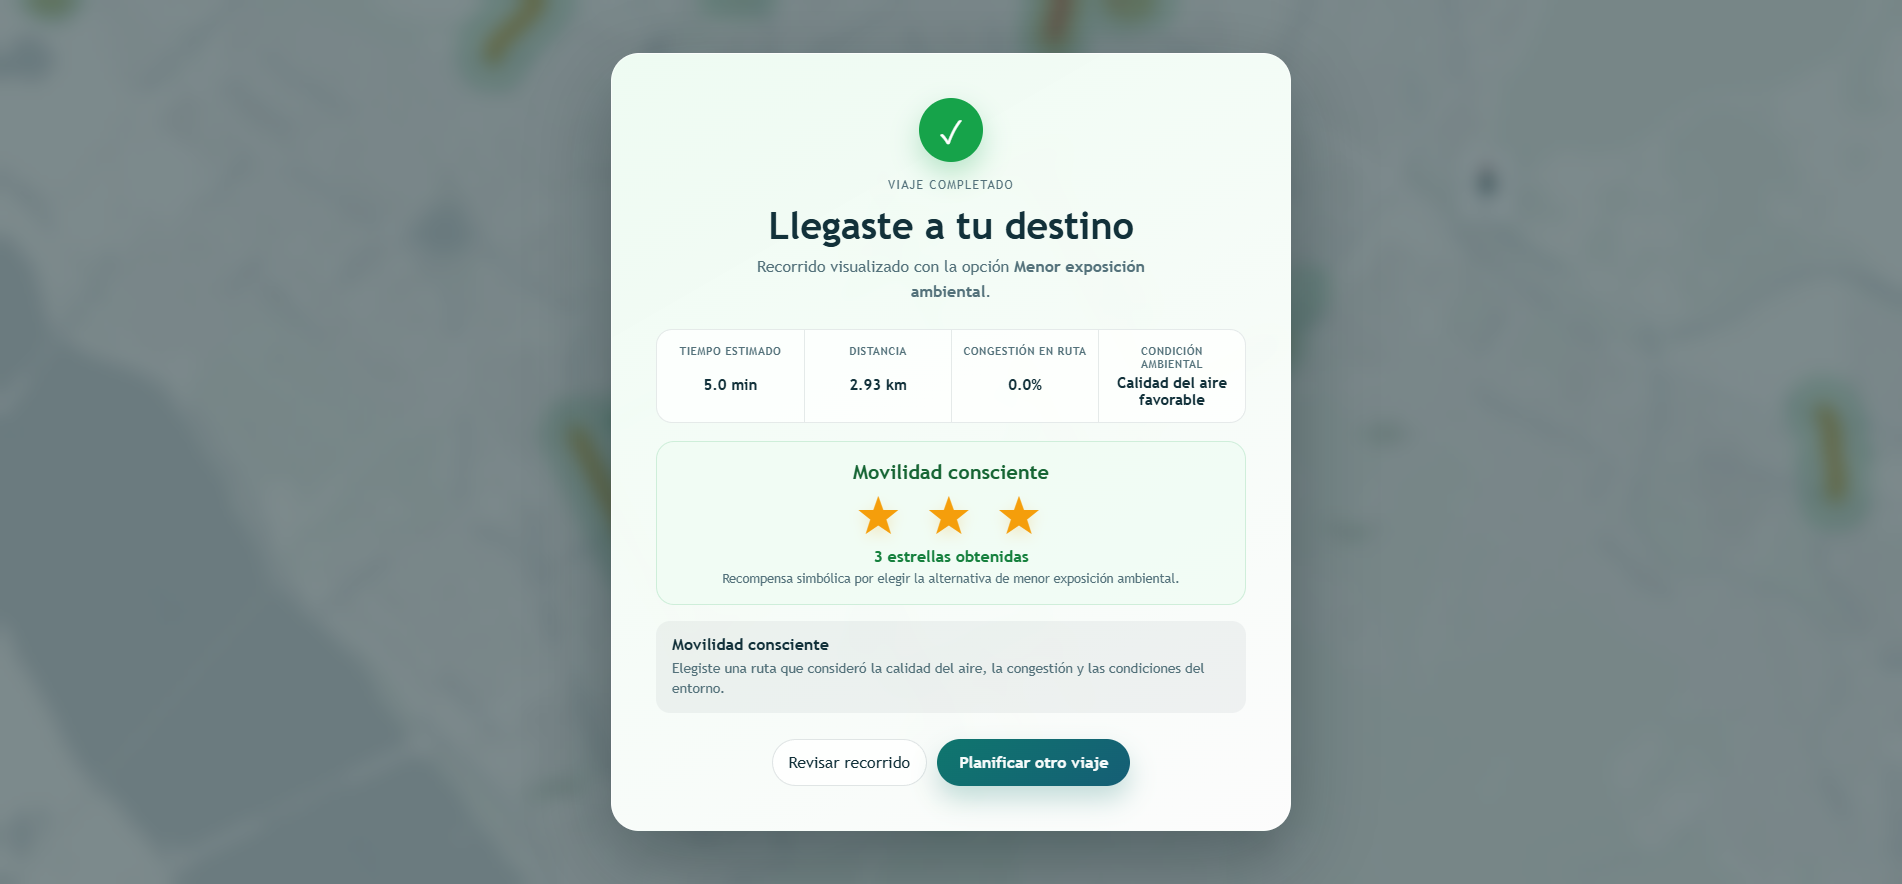
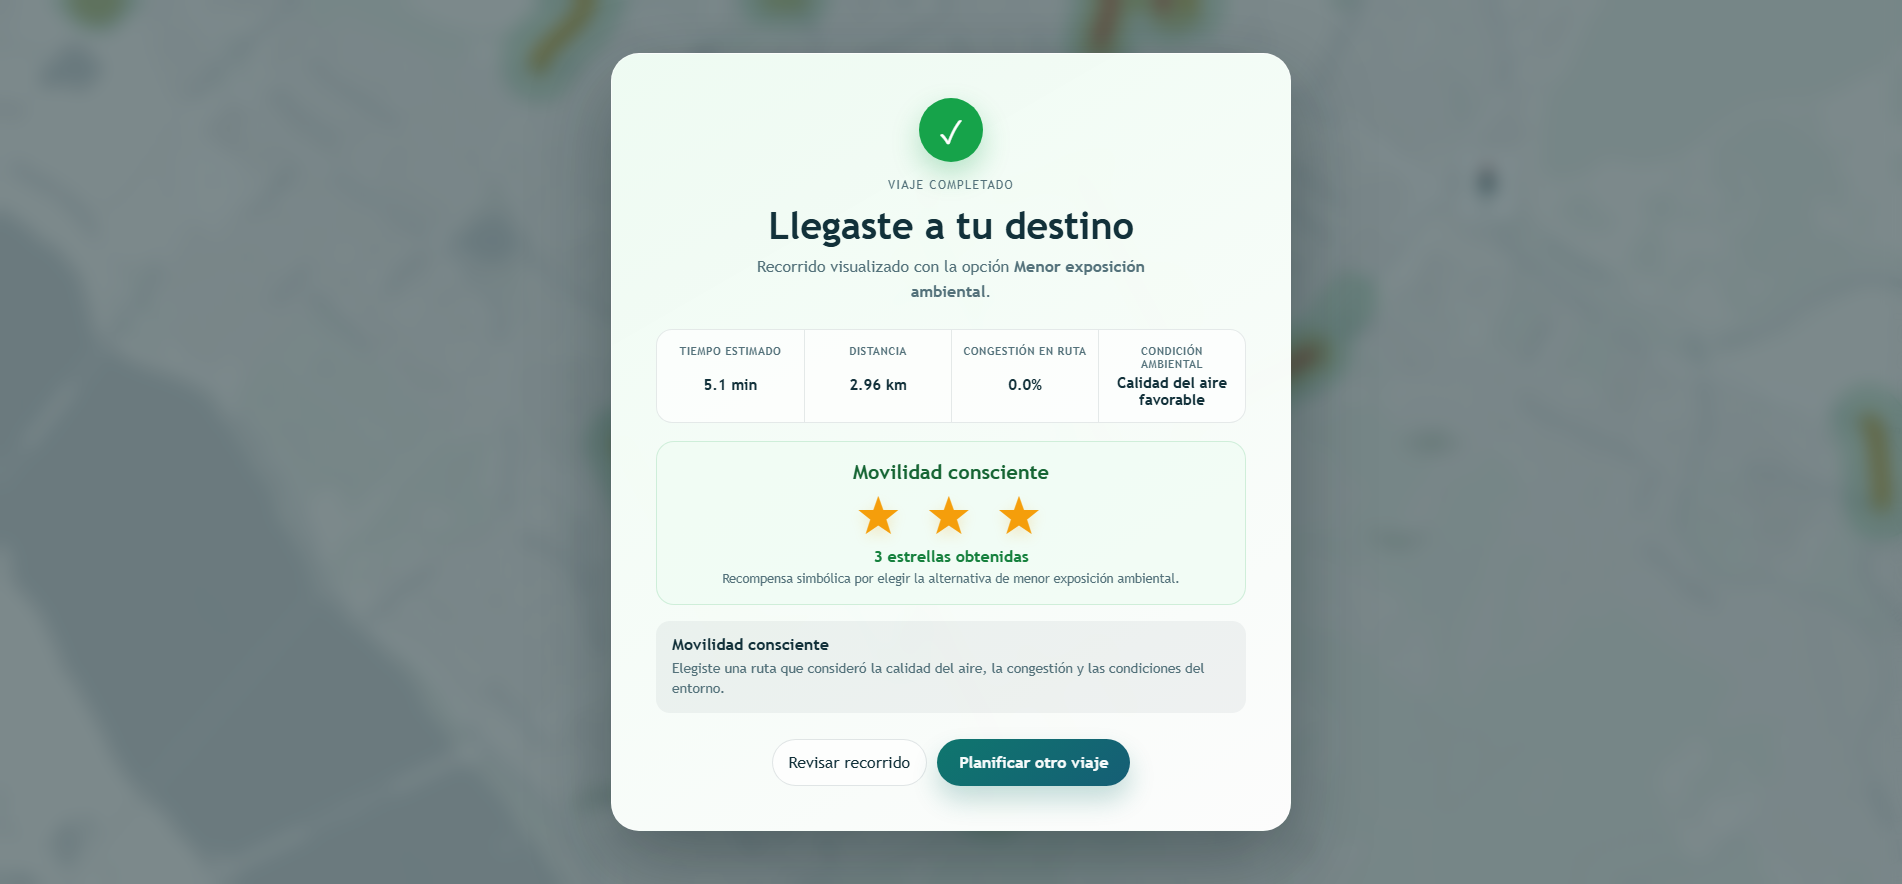
Protect Cerro Caracol routes and refine planner onboarding (#7)
* feat: protect Cerro Caracol routing

* feat: refine planner onboarding guidance

---------

diff --git a/frontend/react_app/src/pages/PlanPage.tsx b/frontend/react_app/src/pages/PlanPage.tsx
@@ -178,7 +178,7 @@ const ONBOARDING_SLIDES: OnboardingSlide[] = [
     focus: "calendar",
     callout: {
       label: "Selecciona fecha y hora",
-      description: "Así se consultarán las condiciones correspondientes al viaje.",
+      description: "En el siguiente recuadro, elige la fecha y la hora en que deseas realizar tu viaje.",
       shape: "rect",
       x: 82.2,
       y: 1.5,
@@ -265,7 +265,7 @@ const ONBOARDING_SLIDES: OnboardingSlide[] = [
       y: 13.5,
       width: 17.7,
       height: 82,
-      arrowX: 47,
+      arrowX: 24.5,
       arrowY: 28,
       targetX: 18.5,
       targetY: 28,
@@ -514,7 +514,8 @@ const ENVIRONMENT_CONDITION_INFO: Record<EnvironmentConditionKey, EnvironmentCon
   },
   wind: {
     label: "Viento",
-    short: "Indica cuanta ventilacion hay para dispersar contaminantes.",
+    short:
+      "Indica la velocidad del viento y, mientras más alta sea, mayor será la dispersión de contaminantes.",
     technical:
       "Viento suave: menos de 20 km/h, menor dispersion. Viento moderado: 20 a menos de 39 km/h, ayuda a dispersar. Viento fuerte: desde 39 km/h, mayor dispersion.",
     recommendation:

diff --git a/frontend/react_app/src/styles.css b/frontend/react_app/src/styles.css
@@ -5310,6 +5310,11 @@ input[type="range"] {
   transform: translate(-8px, -108%);
 }
 
+.onboarding-focus-recommendation .preview-callout-note {
+  max-width: min(310px, 32%);
+  transform: translate(12px, -50%);
+}
+
 .onboarding-focus-layers .preview-callout-note {
   max-width: min(360px, 40%);
 }

diff --git a/backend/fastapi_app/app/services/routing_service.py b/backend/fastapi_app/app/services/routing_service.py
@@ -74,6 +74,132 @@ DAY_ALIASES = {
     "domingo": "Sunday",
 }
 
+# Límite simplificado del Parque Metropolitano Cerro Caracol (OSM way 1061161704).
+# El corredor de Víctor Lamas se permite explícitamente porque bordea el parque
+# y constituye la alternativa vial indicada para atravesar este sector.
+CERRO_CARACOL_PROTECTED_POLYGON: Tuple[Tuple[float, float], ...] = (
+    (-36.8355807, -73.0555244),
+    (-36.8380489, -73.0549166),
+    (-36.8360418, -73.0496085),
+    (-36.8383344, -73.0490452),
+    (-36.8382292, -73.0443004),
+    (-36.8406227, -73.0414385),
+    (-36.8436837, -73.0391049),
+    (-36.8436923, -73.0379999),
+    (-36.8420180, -73.0322117),
+    (-36.8386478, -73.0331934),
+    (-36.8374899, -73.0336365),
+    (-36.8365613, -73.0335260),
+    (-36.8359473, -73.0356985),
+    (-36.8330443, -73.0398319),
+    (-36.8327551, -73.0395425),
+    (-36.8320432, -73.0406373),
+    (-36.8305391, -73.0415440),
+    (-36.8308884, -73.0420446),
+    (-36.8312384, -73.0433494),
+    (-36.8320678, -73.0445917),
+    (-36.8327758, -73.0452263),
+    (-36.8339353, -73.0472987),
+    (-36.8352312, -73.0493902),
+    (-36.8343773, -73.0500710),
+    (-36.8344362, -73.0524658),
+    (-36.8351270, -73.0534724),
+)
+CERRO_CARACOL_APPROACH_BUFFER_KM = 0.60
+CERRO_CARACOL_APPROACH_PENALTY = 80.0
+
+
+def _point_in_polygon(lat: float, lon: float, polygon: Tuple[Tuple[float, float], ...]) -> bool:
+    inside = False
+    previous_lat, previous_lon = polygon[-1]
+    for current_lat, current_lon in polygon:
+        crosses_latitude = (current_lat > lat) != (previous_lat > lat)
+        if crosses_latitude:
+            crossing_lon = (
+                (previous_lon - current_lon) * (lat - current_lat) / (previous_lat - current_lat)
+                + current_lon
+            )
+            if lon < crossing_lon:
+                inside = not inside
+        previous_lat, previous_lon = current_lat, current_lon
+    return inside
+
+
+def _is_victor_lamas(via: str) -> bool:
+    normalized = unicodedata.normalize("NFKD", str(via or ""))
+    ascii_name = "".join(char for char in normalized if not unicodedata.combining(char)).lower()
+    return "victor lamas" in ascii_name
+
+
+def _point_to_segment_distance_km(
+    lat: float,
+    lon: float,
+    start: Tuple[float, float],
+    end: Tuple[float, float],
+) -> float:
+    reference_lat = math.radians((lat + start[0] + end[0]) / 3)
+
+    def project(point_lat: float, point_lon: float) -> Tuple[float, float]:
+        return (
+            math.radians(point_lon - lon) * routing.EARTH_RADIUS_KM * math.cos(reference_lat),
+            math.radians(point_lat - lat) * routing.EARTH_RADIUS_KM,
+        )
+
+    start_x, start_y = project(*start)
+    end_x, end_y = project(*end)
+    delta_x = end_x - start_x
+    delta_y = end_y - start_y
+    denominator = delta_x * delta_x + delta_y * delta_y
+    if denominator <= 0:
+        return math.hypot(start_x, start_y)
+    position = max(0.0, min(1.0, -(start_x * delta_x + start_y * delta_y) / denominator))
+    return math.hypot(start_x + position * delta_x, start_y + position * delta_y)
+
+
+def _distance_to_cerro_caracol_km(lat: float, lon: float) -> float:
+    if _point_in_polygon(lat, lon, CERRO_CARACOL_PROTECTED_POLYGON):
+        return 0.0
+    distances = []
+    previous = CERRO_CARACOL_PROTECTED_POLYGON[-1]
+    for current in CERRO_CARACOL_PROTECTED_POLYGON:
+        distances.append(_point_to_segment_distance_km(lat, lon, previous, current))
+        previous = current
+    return min(distances)
+
+
+def _cerro_caracol_edge_allowed(source: routing.GraphNode, target: routing.GraphNode) -> bool:
+    midpoint_lat = (source.lat + target.lat) / 2
+    midpoint_lon = (source.lon + target.lon) / 2
+    touches_protected_area = any(
+        _point_in_polygon(lat, lon, CERRO_CARACOL_PROTECTED_POLYGON)
+        for lat, lon in (
+            (source.lat, source.lon),
+            (target.lat, target.lon),
+            (midpoint_lat, midpoint_lon),
+        )
+    )
+    if not touches_protected_area:
+        return True
+    return _is_victor_lamas(source.via) or _is_victor_lamas(target.via)
+
+
+def _cerro_caracol_edge_cost_factor(source: routing.GraphNode, target: routing.GraphNode) -> float:
+    if _is_victor_lamas(source.via) or _is_victor_lamas(target.via):
+        return 1.0
+    midpoint_lat = (source.lat + target.lat) / 2
+    midpoint_lon = (source.lon + target.lon) / 2
+    closest_distance = min(
+        _distance_to_cerro_caracol_km(lat, lon)
+        for lat, lon in (
+            (source.lat, source.lon),
+            (target.lat, target.lon),
+            (midpoint_lat, midpoint_lon),
+        )
+    )
+    if closest_distance <= CERRO_CARACOL_APPROACH_BUFFER_KM:
+        return CERRO_CARACOL_APPROACH_PENALTY
+    return 1.0
+
 
 @dataclass(frozen=True)
 class RoadSnap:
@@ -419,6 +545,8 @@ class RoutingService:
         route_endpoint_kwargs = {
             "source_node_costs": origin_snap.source_node_costs,
             "target_node_costs": destination_snap.target_node_costs,
+            "edge_filter": _cerro_caracol_edge_allowed,
+            "edge_cost_factor": _cerro_caracol_edge_cost_factor,
         }
         day_value = _normalize_day(payload.day_of_week)
         hour_bucket = data_loader.hour_bucket(payload.departure_hour)
@@ -980,6 +1108,8 @@ class RoutingService:
             source_node_costs=origin_snap.source_node_costs if origin_snap else None,
             incident_ctx=incident_ctx,
             apply_penalties=apply_penalties,
+            edge_filter=_cerro_caracol_edge_allowed,
+            edge_cost_factor=_cerro_caracol_edge_cost_factor,
         )
         second = self.graph.shortest_path(
             (float(waypoint["lat"]), float(waypoint["lon"])),
@@ -987,6 +1117,8 @@ class RoutingService:
             target_node_costs=destination_snap.target_node_costs if destination_snap else None,
             incident_ctx=incident_ctx,
             apply_penalties=apply_penalties,
+            edge_filter=_cerro_caracol_edge_allowed,
+            edge_cost_factor=_cerro_caracol_edge_cost_factor,
         )
         if not first or not second:
             return []

diff --git a/algorithms/recommenders/routing.py b/algorithms/recommenders/routing.py
@@ -493,6 +493,8 @@ class RouteGraph:
         apply_penalties: bool = True,
         source_node_costs: Optional[Dict[str, float]] = None,
         target_node_costs: Optional[Dict[str, float]] = None,
+        edge_filter: Optional[Callable[[GraphNode, GraphNode], bool]] = None,
+        edge_cost_factor: Optional[Callable[[GraphNode, GraphNode], float]] = None,
     ) -> List[RouteStep]:
         if source_node_costs:
             source_candidates = [
@@ -641,6 +643,8 @@ class RouteGraph:
             current_node = nodes[node_id]
             for neighbor, base_weight in adjacency.get(node_id, []):
                 neighbor_node = nodes[neighbor]
+                if edge_filter is not None and not edge_filter(current_node, neighbor_node):
+                    continue
                 if apply_penalties:
                     penalty = max((current_node.penalty_factor + neighbor_node.penalty_factor) / 2, 1.0)
                     speed_a = current_node.velocidad_kmh if math.isfinite(current_node.velocidad_kmh) else 0.0
@@ -655,7 +659,21 @@ class RouteGraph:
                 incident = incident_factor(neighbor_node)
                 pollution = pollution_factor(neighbor_node)
                 wellbeing = wellbeing_factor(neighbor_node)
-                adjusted_weight = base_weight * penalty * speed_factor * preference * incident * pollution * wellbeing
+                edge_factor = 1.0
+                if edge_cost_factor is not None:
+                    candidate_factor = edge_cost_factor(current_node, neighbor_node)
+                    if math.isfinite(candidate_factor):
+                        edge_factor = max(1.0, float(candidate_factor))
+                adjusted_weight = (
+                    base_weight
+                    * penalty
+                    * speed_factor
+                    * preference
+                    * incident
+                    * pollution
+                    * wellbeing
+                    * edge_factor
+                )
                 new_dist = current_dist + adjusted_weight
                 if new_dist < distances.get(neighbor, float("inf")):
                     distances[neighbor] = new_dist

diff --git a/backend/fastapi_app/tests/unit/test_routing_graph.py b/backend/fastapi_app/tests/unit/test_routing_graph.py
@@ -188,6 +188,49 @@ def test_route_graph_connects_nearby_segments():
     assert path[-1].segment_id == "segB"
 
 
+def test_shortest_path_respects_edge_filter():
+    def node(node_id: str, lat: float, lon: float, via: str) -> routing.GraphNode:
+        return routing.GraphNode(
+            node_id=node_id,
+            segment_id=node_id,
+            segment_seq=0,
+            lat=lat,
+            lon=lon,
+            tipo_evento="Referencia",
+            velocidad_kmh=30.0,
+            duracion_hrs=0.1,
+            via=via,
+            comuna="Test",
+        )
+
+    nodes = {
+        "source": node("source", 0.0, 0.0, "Inicio"),
+        "blocked": node("blocked", 0.0, 0.001, "Interior protegido"),
+        "detour": node("detour", 0.001, 0.001, "Corredor permitido"),
+        "target": node("target", 0.0, 0.002, "Destino"),
+    }
+    graph = routing.RouteGraph(
+        nodes,
+        {
+            "source": [("blocked", 1.0), ("detour", 2.0)],
+            "blocked": [("target", 1.0)],
+            "detour": [("target", 2.0)],
+            "target": [],
+        },
+    )
+
+    path = graph.shortest_path(
+        (0.0, 0.0),
+        (0.0, 0.002),
+        apply_penalties=False,
+        source_node_costs={"source": 0.0},
+        target_node_costs={"target": 0.0},
+        edge_filter=lambda _source, target: target.node_id != "blocked",
+    )
+
+    assert [step.node_id for step in path] == ["source", "detour", "target"]
+
+
 def test_route_graph_penalizes_normalized_congestion_event_types():
     df = pd.DataFrame(
         [

diff --git a/backend/fastapi_app/tests/unit/test_routing_service.py b/backend/fastapi_app/tests/unit/test_routing_service.py
@@ -348,6 +348,32 @@ def test_least_congestion_variant_is_dedicated_penalized_route(monkeypatch):
     assert "urban_wellbeing_factor" not in service.graph.calls[1]
 
 
+def test_cerro_caracol_blocks_internal_edges_but_allows_victor_lamas():
+    def node(node_id: str, lat: float, lon: float, via: str) -> routing.GraphNode:
+        return routing.GraphNode(
+            node_id=node_id,
+            segment_id=node_id,
+            segment_seq=0,
+            lat=lat,
+            lon=lon,
+            tipo_evento="Referencia",
+            velocidad_kmh=30.0,
+            duracion_hrs=0.1,
+            via=via,
+            comuna="Concepción",
+        )
+
+    outside = node("outside", -36.8280, -73.0470, "Cochrane")
+    inside = node("inside", -36.8360, -73.0470, "Veteranos del 79")
+    victor_lamas = node("victor", -36.8360, -73.0470, "Víctor Lamas")
+
+    assert routing_service._cerro_caracol_edge_allowed(outside, outside)
+    assert not routing_service._cerro_caracol_edge_allowed(inside, inside)
+    assert routing_service._cerro_caracol_edge_allowed(outside, victor_lamas)
+    assert routing_service._cerro_caracol_edge_cost_factor(inside, inside) > 1.0
+    assert routing_service._cerro_caracol_edge_cost_factor(outside, victor_lamas) == 1.0
+
+
 def _healthy_candidate(
     *,
     lat: float,
